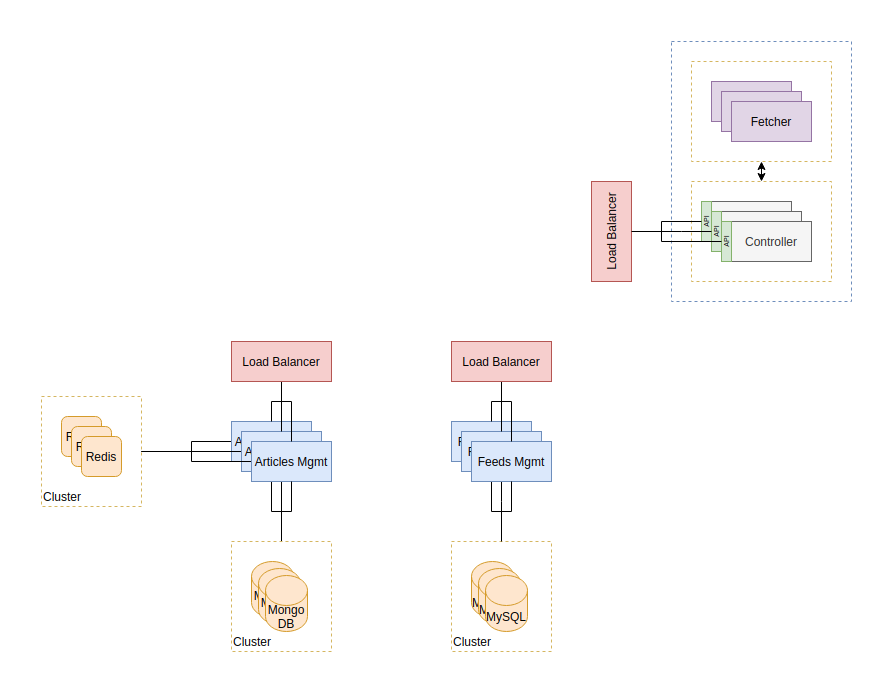
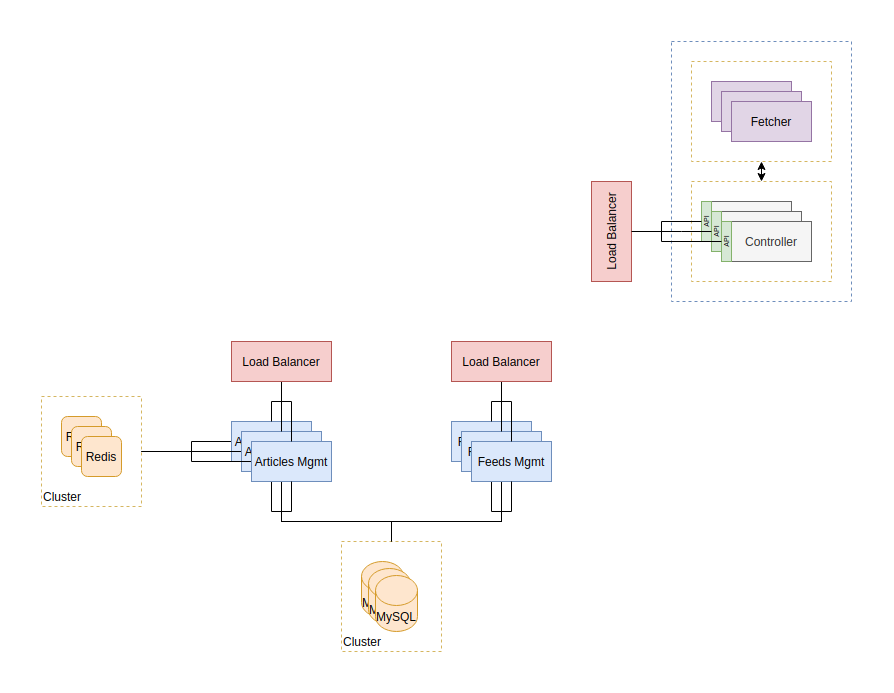
Updated the system design and corresponding images

Changed region(s): [[0.2416, 0.7879, 0.3624, 0.9394], [0.4832, 0.7879, 0.604, 0.9394], [0.3624, 0.7879, 0.4832, 0.9394]]

diff --git a/SYSTEM_DESIGN.md b/SYSTEM_DESIGN.md
@@ -12,11 +12,11 @@ The `fetcher service` is responsible for periodically fetching new articles from
 
 ## Design decisions
 
-I decided to use MongoDB for storing the articles metadata as I believe it lands itself well within a document like store. We could accomplish the same thing with a relational database however.
+I decided to use a relational database for storing the articles metadata as I believe it lands itself well for this type of service given all we need is a place with a simple and clear structure to store data we get from the RSS feeds.
 
-I decided to use a relational database for the feeds management service as all we need is persistence storage with minimal look up functionality.
+I also decided to use a relational database for the feeds management service as all we need is persistent storage with minimal look up functionality.
 
-In any case, we could have swapped both DBs or use only one of them for both services, as this is a fairly simple service and I don't believe database choice, in this case, matters too much.
+In any case, we could have chosen a document store, like MongoDB, or even a wide column store, like Cassandra, for any of these services. Since this is a fairly simple service I don't believe database choice, in this case, matters too much.
 
 We'd have to consider this further if we were planing on growing this service, but at that point, we would most certainly have more requirements or at least an idea of the future features we would want these services to have, which would in turn provide more clarity on which database would make more sense for each service.
 
@@ -61,7 +61,7 @@ First, we can use a TTL for entries, after that TTL expires, entries in the cach
 
 I'd do caching based on the filtering parameters, which in this case is `provider` and `category`.
 
-I've recently discovered `groupcache`, created by the original memcache author, and I quite like what it has to offer, especially when it comes to not requiring external dependencies for caching purposes, not to mention replication of hot keys across different instances and what not.
+I've recently discovered `groupcache`, created by the original memcached author, and I quite like what it has to offer, especially when it comes to not requiring external dependencies for caching purposes, not to mention replication of hot keys across different instances and what not.
 However, because it doesn't support an expiry time and neither does it support explicit cache evictions, we would have to change our caching strategy to be able to use this service.
 
 ## High Availability and scalability
@@ -74,8 +74,9 @@ We can scale the Feeds and Articles management APIs very easily by putting a loa
 
 Both services are stateless simple CRUD services.
 
-Both MySQL and MongoDB can be setup in a cluster to provide resiliency.
-We can do the same with Redis.
+MySQL can be setup in a cluster to provide resiliency and so can Redis.
+
+In the diagram I only show one MySQL cluster, as we would only setup a physical cluster and then have DB separation at the logical level.
 
 As for the fetcher service, this one is more trick to scale. The problem is that at the moment, the fetcher service is setup in a way that it sends a request to each RSS provider every X minutes/hours.
 
